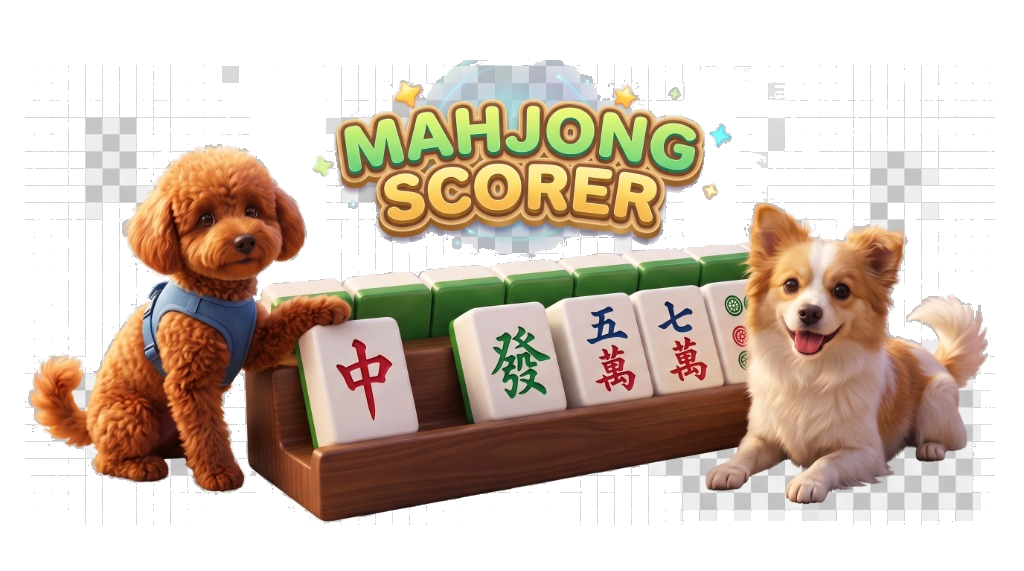
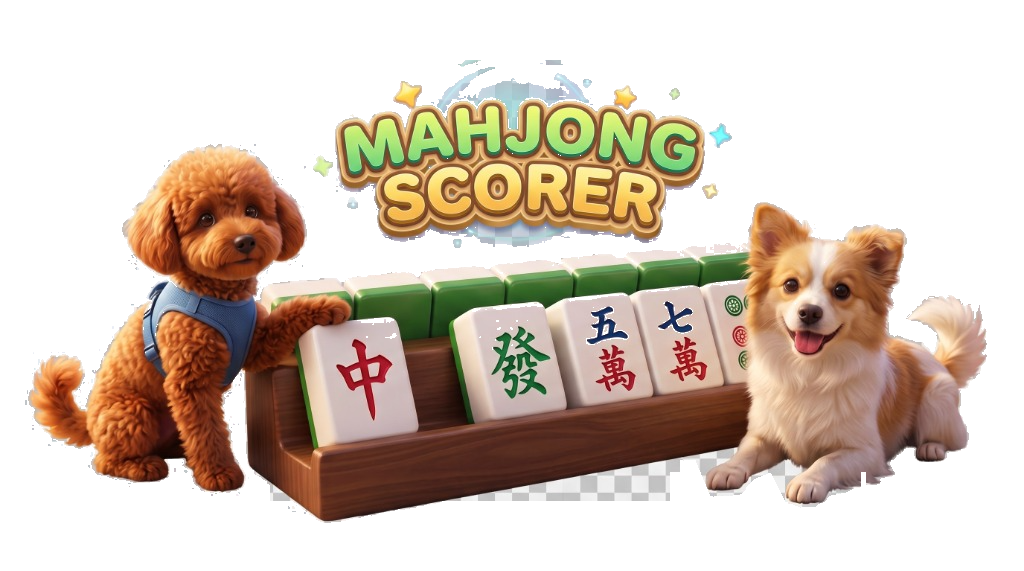
feat(header): switch to lossless transparent PNG headers with full table and dual language support

diff --git a/index.html b/index.html
@@ -4,7 +4,7 @@
     <meta charset="UTF-8">
     <meta name="viewport" content="width=device-width, initial-scale=1.0, maximum-scale=1.0, user-scalable=no">
     <title>🐶 🀄 麻将计分器 🐕</title>
-    <link rel="stylesheet" href="/style.css?v=27">
+    <link rel="stylesheet" href="/style.css?v=28">
 </head>
 <body>
     <div class="container">
@@ -16,7 +16,7 @@
         <!-- Header Banner Container (Dual Language Flanking Dogs & Mahjong Rack) -->
         <header class="header-banner-container" id="headerBanner">
             <div class="banner-wrapper" id="bannerWrapper">
-                <img src="/images/header-zh.jpg?v=27" class="header-theme-banner" alt="麻将计分器" id="headerBannerImg">
+                <img src="/images/header-zh.png?v=28" class="header-theme-banner" alt="麻将计分器" id="headerBannerImg">
                 <!-- Interactive Hotspots for Poodle, Fluffy Pup and Title -->
                 <div class="pet-hotspot hotspot-left-poodle" id="hotspotLeftPoodle" title="泰迪贵宾"></div>
                 <div class="pet-hotspot hotspot-right-fluffy" id="hotspotRightFluffy" title="花色小狗"></div>
@@ -40,6 +40,6 @@
             </div>
         </main>
     </div>
-    <script src="/app.js?v=27"></script>
+    <script src="/app.js?v=28"></script>
 </body>
 </html>

diff --git a/app.js b/app.js
@@ -121,7 +121,7 @@ function toggleLanguage() {
     // Update header banner image according to language
     const headerBannerImg = document.getElementById('headerBannerImg');
     if (headerBannerImg) {
-        headerBannerImg.src = currentLang === 'en' ? '/images/header-en.jpg?v=27' : '/images/header-zh.jpg?v=27';
+        headerBannerImg.src = currentLang === 'en' ? '/images/header-en.png?v=28' : '/images/header-zh.png?v=28';
         headerBannerImg.alt = currentLang === 'en' ? 'Mahjong Scorer' : '麻将计分器';
     }
 
